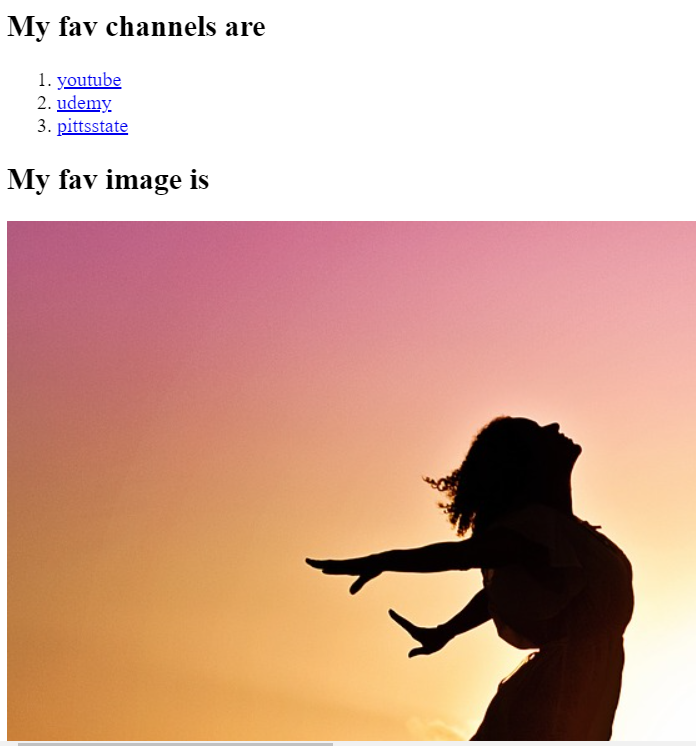
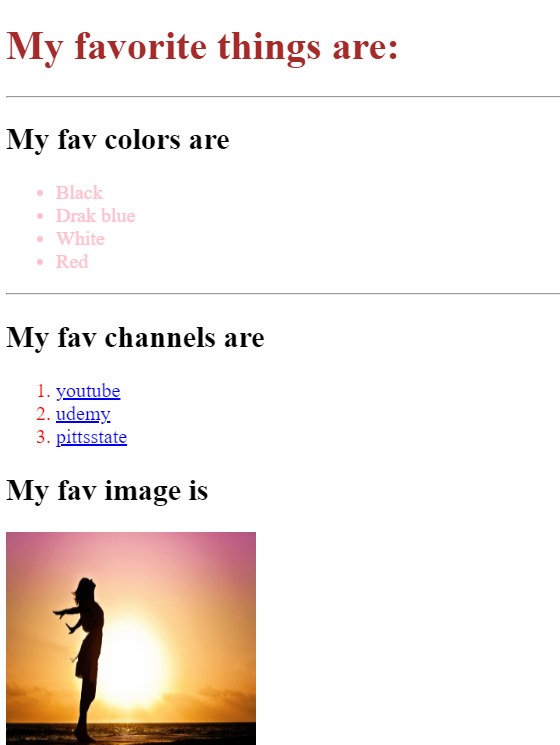
Add files via upload

diff --git a/AboutMe.html b/AboutMe.html
@@ -1,0 +1,22 @@
+<!DOCTYPE html>
+<html lang="en">
+    <head>
+        <meta charset="UTF-8">
+        <title>ABOUTME</title>
+        <style>
+            h1 {
+                background-color: brown;
+            }
+            p {
+                background-color: antiquewhite;
+            }
+        </style>
+        
+
+    </head>
+    <body>
+        <h1>About Me:</h1><br/>
+        <p>My name is Prashanth Reddy. I am from the country which is best known for it's diverse and vibrant culture, India. I have completed my bachelor's degree from AAA Engineering College in the stream of Computer Science and Engineering in the year 2022. During bachelor’s I learnt the front-end language like HTML, and CSS and back-end language like Python, C and C++.Coming to my personal life I am passion for learning new things and I am a balanced person this makes me unique from others. My favorite color is black. It as a favorite shade is said to represent a strong-willed and determined character. It is associated with strength, authority, and power.  Black's color meaning is symbolic of mystery, power, elegance, and sophistication. It is often used symbolically or figuratively to represent darkness.The science of statistics focuses on creating and researching strategies for gathering, analyzing, interpreting, and presenting empirical data. Statistics is challenging for me because it is taught out of context. It is really difficult to learn and apply statistics, until analyzing the data. </p>
+
+    </body>
+</html>

diff --git a/fav.html b/fav.html
@@ -1,0 +1,47 @@
+<!DOCTYPE html>
+<html lang="en">
+    <head>
+        <meta charset="UTF-8">
+        <title>FavoriteThings</title>
+        <style>
+            h1 {
+                color: brown;
+
+            }
+            h2 {
+                color: black;
+            }
+            img {
+                height: 200px;
+                width: 200px;
+            }
+            ul {
+                color: pink;
+            }
+            ol {
+                color: red;
+            }
+        </style>
+    </head>
+    <body>
+        <h1>My favorite things are:</h1>
+        <hr/>
+        <h2>My fav colors are</h2>
+        <ul>
+            <li>Black</li>
+            <li>Drak blue</li>
+            <li>White</li>
+            <li>Red</li>
+        </ul>
+        <hr/>
+        <h2>My fav channels are</h2>
+        <ol>
+             <li><a href="https://www.youtube.com/">youtube</a></li>
+             <li><a href="https://www.udemy.com/">udemy</a></li>
+             <li><a href="https://gus.pittstate.edu/">pittsstate</a></li>
+        </ol>
+        <h2>My fav image is</h2>
+        <img src="https://cdn.pixabay.com/photo/2014/12/16/22/25/woman-570883_1280.jpg"/>
+
+    </body>
+        

diff --git a/BirthdayInvitation.html b/BirthdayInvitation.html
@@ -1,0 +1,32 @@
+<!DOCTYPE html>
+<html lang="en">
+    <head>
+        <meta charset="UTF-8">
+        <title>Birthday Invitation</title>
+        <style>
+            h1 {
+                color: black;
+                font-style: italic;
+
+            }
+            h2 {
+                color:brown;
+            }
+            img {
+                height: 200px;
+                width: 200px;
+            }
+        </style>
+    </head>
+        <h1>It's my Birthday!</h1>
+        <h2>On Jan 23rd</h2>
+<img src="https://play-lh.googleusercontent.com/PElv0HmQCT3DJ-R6AzzGIk_uRlfFBRqB3LYN-NrcaCz1p2hCN1no6OOW_colIHfdk9YF"/>
+
+<h2>What to bring</h2>
+<ul>
+    <li>Ballons(I LOVE BLACK BALLONS)</li>
+    <li>Cake(I'm really good at eating)</li>
+    <li>An appetite(There will be a lots of food)</li>
+</ul>
+<h2>This is where you need to go:</h2>
+<a href="https://www.buffalowildwings.com/locations/us/ks/pittsburg/">buffalowildwings</a>

diff --git a/index.html b/index.html
@@ -1,0 +1,19 @@
+<!DOCTYPE html>
+<html lang="en">
+    <head>
+        <meta charset="UTF-8">
+        <title>Prashanth Portfolio</title>
+    </head>
+    <body>
+        <h1>Prashanth Reddy Portfolio</h1>
+        <h2>I am a Web Developer</h2>
+        <hr/>
+        <h3><a href="./fav.html">favorite</a></h3>
+        <img src="./favthings.png" height="200" alt="favthings preview"/>
+        <h3><a href="./BirthdayInvitation.html">Birthday Invitation Project</a></h3>
+        <img src="./bdaypreview.png" height="200" alt="Birthday Invitation Preview">
+        <hr/>
+        <a href="./AboutMe.html">About me</a>
+        <a href="./Contact.html">Contact Me</a>
+    </body>
+</html>

diff --git a/contactme.html b/contactme.html
@@ -1,0 +1,18 @@
+<!DOCTYPE html>
+<html lang="en">
+    <head>
+        <meta charset="UTF-8">
+        <title>Prashanth Contact</title>
+    </head>
+    <body>
+        <h1 style="color: blueviolet;">Contact</h1>
+        <h2>Name: Prashanth Reddy</h2>
+        <h2>Profession: Web Developer</h2>
+        <h2>Contact Number: 719-345-0321</h2>
+        <h2>Email ID: prashanth@gmail.com</h2>
+        
+    </body>
+</html>
+
+
+

diff --git a/Contact.html b/Contact.html
@@ -1,0 +1,13 @@
+<!DOCTYPE html>
+<html lang="en">
+    <head>
+        <meta charset="UTF-8">
+        <title>Contact</title>
+        <style>
+            img {
+                height: 200px;
+                width: 200px;
+            }
+        </style>
+
+    </head><a href ="./contactme.html"><img src ="https://cdn-icons-png.flaticon.com/512/3095/3095583.png"></a>
